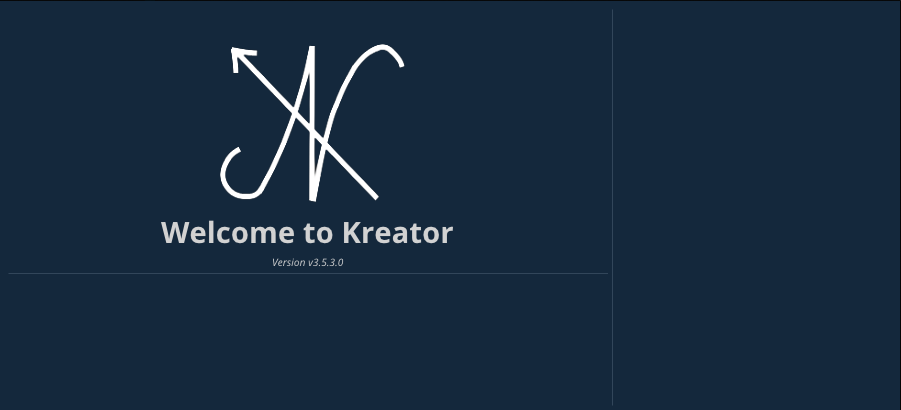
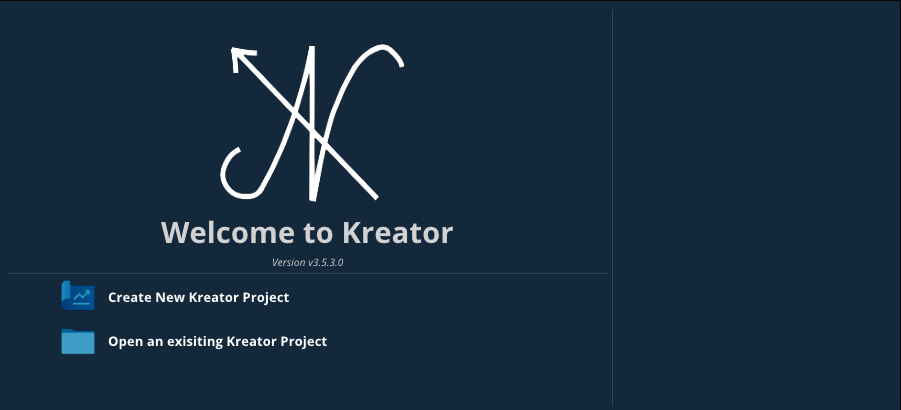
Project buttons in welcome screen

Changed region(s): [[0.0622, 0.6732, 0.3418, 0.761], [0.0622, 0.7902, 0.3729, 0.878]]

diff --git a/Kreator/Kreator/UI/ImGuiUtils.cpp b/Kreator/Kreator/UI/ImGuiUtils.cpp
@@ -108,7 +108,141 @@ namespace Kreator::UI
     *fmt::format_to_n(s_labeledBufferID, std::size(s_labeledBufferID), "{}##{}", label, s_counter++).out = 0;
     return s_labeledBufferID;
   }
+  
+  bool IsItemHovered()
+  {
+    return ImGui::IsItemHovered();
+  }
+  bool IsItemDisabled()
+  {
+    return ImGui::GetItemFlags() & ImGuiItemFlags_Disabled;
+  }
+  void SetTooltip(const std::string_view& text)
+  {
+    if (IsItemHovered())
+    {
+      UI::ScopedColor textCol(ImGuiCol_Text, UI::Color::TextBrighter);
+      ImGui::SetTooltip(text.data());
+    }
+  }
+  
+  // Colors ----------------------------------------------------------------------------------------------------------
+  ImU32 ColorWithValue(const ImColor& color, float value)
+  {
+    const ImVec4& colRow = color.Value;
+    float hue, sat, val;
+    ImGui::ColorConvertRGBtoHSV(colRow.x, colRow.y, colRow.z, hue, sat, val);
+    return ImColor::HSV(hue, sat, std::min(value, 1.0f));
+  }
+  
+  ImU32 ColorWithSaturation(const ImColor& color, float saturation)
+  {
+    const ImVec4& colRow = color.Value;
+    float hue, sat, val;
+    ImGui::ColorConvertRGBtoHSV(colRow.x, colRow.y, colRow.z, hue, sat, val);
+    return ImColor::HSV(hue, std::min(saturation, 1.0f), val);
+  }
+  
+  ImU32 ColorWithHue(const ImColor& color, float hue)
+  {
+    const ImVec4& colRow = color.Value;
+    float h, s, v;
+    ImGui::ColorConvertRGBtoHSV(colRow.x, colRow.y, colRow.z, h, s, v);
+    return ImColor::HSV(std::min(hue, 1.0f), s, v);
+  }
+  
+  ImU32 ColorWithMultipliedValue(const ImColor& color, float multiplier)
+  {
+    const ImVec4& colRow = color.Value;
+    float hue, sat, val;
+    ImGui::ColorConvertRGBtoHSV(colRow.x, colRow.y, colRow.z, hue, sat, val);
+    return ImColor::HSV(hue, sat, std::min(val * multiplier, 1.0f));
+  }
+  
+  ImU32 ColorWithMultipliedSaturation(const ImColor& color, float multiplier)
+  {
+    const ImVec4& colRow = color.Value;
+    float hue, sat, val;
+    ImGui::ColorConvertRGBtoHSV(colRow.x, colRow.y, colRow.z, hue, sat, val);
+    return ImColor::HSV(hue, std::min(sat * multiplier, 1.0f), val);
+  }
+  
+  ImU32 ColorWithMultipliedHue(const ImColor& color, float multiplier)
+  {
+    const ImVec4& colRow = color.Value;
+    float hue, sat, val;
+    ImGui::ColorConvertRGBtoHSV(colRow.x, colRow.y, colRow.z, hue, sat, val);
+    return ImColor::HSV(std::min(hue * multiplier, 1.0f), sat, val);
+  }
 
+  // Buttons ---------------------------------------------------------------------------------------------------------
+  void DrawButtonImage(const Ref<IKan::Image>& imageNormal, const Ref<IKan::Image>& imageHovered,
+                       const Ref<IKan::Image>& imagePressed, const ImVec2& rectMin, const ImVec2& rectMax,
+                       const ImU32& tintNormal, const ImU32& tintHovered, const ImU32& tintPressed)
+  {
+    auto* drawList = ImGui::GetWindowDrawList();
+    if (ImGui::IsItemActive())
+    {
+      drawList->AddImage(GetTextureID(imagePressed), rectMin, rectMax, ImVec2(0, 1), ImVec2(1, 0), tintPressed);
+    }
+    else if (ImGui::IsItemHovered())
+    {
+      drawList->AddImage(GetTextureID(imageHovered), rectMin, rectMax, ImVec2(0, 1), ImVec2(1, 0), tintHovered);
+    }
+    else
+    {
+      drawList->AddImage(GetTextureID(imageNormal), rectMin, rectMax, ImVec2(0, 1), ImVec2(1, 0), tintNormal);
+    }
+  }
+
+  void DrawButtonImage(const Ref<IKan::Image>& image, const ImRect& rectangle, const ImU32& tintNormal, const ImU32& tintHovered,
+                       const ImU32& tintPressed)
+  {
+    DrawButtonImage(image, image, image, rectangle.Min, rectangle.Max, tintNormal, tintHovered, tintPressed);
+  }
+
+  bool DrawImageTextButton(const std::string& buttonHelper, Ref<IKan::Image> icon, const glm::vec2& iconSize, const glm::vec2& offset,
+                           const ImU32& tintNormal, const ImU32& tintHovered, const ImU32& tintPressed)
+  {
+    auto textSize = ImGui::CalcTextSize(buttonHelper.c_str()).x;;
+    const float buttonWidth = textSize + iconSize.x + 80; // Some random number for margin
+    
+    UI::ShiftCursorX(offset.x);
+    UI::ShiftCursorY(offset.y);
+    if (ImGui::InvisibleButton(GenerateLabelID(buttonHelper), ImVec2(buttonWidth, iconSize.y), ImGuiButtonFlags_AllowItemOverlap))
+    {
+      return true;
+    }
+    
+    // Modify the icon size if hovered
+    glm::vec2 iconSizeModified = iconSize;
+    glm::vec2 hoveredLargeIconOffset = {0.0f, 0.0f};
+    if (IsItemHovered())
+    {
+      iconSizeModified.x += 10.0f;
+      iconSizeModified.y += 10.0f;
+      
+      hoveredLargeIconOffset = {5.0f, 5.0f};
+    }
+    
+    const ImVec2 logoRectStart =
+    {
+      ImGui::GetItemRectMin().x - hoveredLargeIconOffset.x,
+      ImGui::GetItemRectMin().y - hoveredLargeIconOffset.y
+    };
+    const ImVec2 logoRectMax =
+    {
+      logoRectStart.x + iconSizeModified.x,
+      logoRectStart.y + iconSizeModified.y
+    };
+    
+    UI::DrawButtonImage(icon, ImRect{logoRectStart, logoRectMax}, tintNormal, tintHovered, tintPressed);
+    
+    ImGui::SameLine(offset.x + iconSizeModified.x + 10);
+    UI::Text(UI::FontType::SemiHeader, buttonHelper, UI::AlignX::Left, {0.0f, iconSize.x / 4}, UI::Color::TextBrighter);
+    return false;
+  };
+  
   // Texts -----------------------------------------------------------------------------------------------------------
   void Text(FontType type, std::string_view string, AlignX xAlign, const glm::vec2& offset, const ImU32& color)
   {

diff --git a/Kreator/Kreator/UI/ImGuiUtils.hpp b/Kreator/Kreator/UI/ImGuiUtils.hpp
@@ -84,6 +84,91 @@ namespace Kreator::UI
   /// This function generate Unique id for labeled widget
   /// - Parameter label: Widget lable
   const char* GenerateLabelID(const std::string_view& label);
+  /// This function checkes is imgui item hovered
+  bool IsItemHovered();
+  /// This function checles is imgui item disabled
+  bool IsItemDisabled();
+  
+  /// This function show the tooltip messge
+  /// - Parameter text: message
+  void SetTooltip(const std::string_view& text);
+  
+  // Colors ----------------------------------------------------------------------------------------------------------
+  /// This function add the color to some value
+  /// - Parameters:
+  ///   - color: color
+  ///   - value: value
+  ImU32 ColorWithValue(const ImColor& color, float value);
+  /// This function adds the color with saturation
+  /// - Parameters:
+  ///   - color: color
+  ///   - saturation: saturation
+  ImU32 ColorWithSaturation(const ImColor& color, float saturation);
+  /// This function adds the color with Hue
+  /// - Parameters:
+  ///   - color: color
+  ///   - hue: hue
+  ImU32 ColorWithHue(const ImColor& color, float hue);
+  /// This finction multiply the color with some value
+  /// - Parameters:
+  ///   - color: color
+  ///   - multiplier: multiplier
+  ImU32 ColorWithMultipliedValue(const ImColor& color, float multiplier);
+  /// This finction multiply the color with some saturation
+  /// - Parameters:
+  ///   - color: color
+  ///   - multiplier: multiplier
+  ImU32 ColorWithMultipliedSaturation(const ImColor& color, float multiplier);
+  /// This finction multiply the color with some hue
+  /// - Parameters:
+  ///   - color: color
+  ///   - multiplier: multiplier
+  ImU32 ColorWithMultipliedHue(const ImColor& color, float multiplier);
+  
+  // Buttons ---------------------------------------------------------------------------------------------------------
+  /// This function draws the image button
+  /// - Parameters:
+  ///   - imageNormal: Normal Image icon
+  ///   - imageHovered: Hovered Image icon
+  ///   - imagePressed: Pressed Image Icon
+  ///   - tintNormal: tint normal color
+  ///   - tintHovered: tint hovered color
+  ///   - tintPressed: tint pressed color
+  ///   - rectMin: min rectangle position
+  ///   - rectMax: max rectangle position
+  /// - Note: Do not draw actual presaable button
+  void DrawButtonImage(const Ref<IKan::Image>& imageNormal, const Ref<IKan::Image>& imageHovered,
+                       const Ref<IKan::Image>& imagePressed, const ImVec2& rectMin, const ImVec2& rectMax,
+                       const ImU32& tintNormal = UI::ColorWithMultipliedValue(UI::Color::TextBrighter, 0.8f),
+                       const ImU32& tintHovered = UI::ColorWithMultipliedValue(UI::Color::TextBrighter, 1.2f),
+                       const ImU32& tintPressed = UI::ColorWithMultipliedValue(UI::Color::TextBrighter, 1.0f));
+
+  /// This function draws the image button
+  /// - Parameters:
+  ///   - image: Image
+  ///   - tintNormal: tint normal color
+  ///   - tintHovered: tint hovered color
+  ///   - tintPressed: tint pressed color
+  ///   - rectangle: image rectangle
+  /// - Note: Do not draw actual presaable button
+  void DrawButtonImage(const Ref<IKan::Image>& image, const ImRect& rectangle,
+                       const ImU32& tintNormal = UI::ColorWithMultipliedValue(UI::Color::TextBrighter, 0.8f),
+                       const ImU32& tintHovered = UI::ColorWithMultipliedValue(UI::Color::TextBrighter, 1.5f),
+                       const ImU32& tintPressed = UI::ColorWithMultipliedValue(UI::Color::TextBrighter, 1.0f));
+  /// This function Draws the button with image and title
+  /// - Parameters:
+  ///   - buttonHelper: button helper
+  ///   - icon: Image
+  ///   - iconSize: Button size
+  ///   - offset: offset of button
+  ///   - tintNormal: tint normal
+  ///   - tintHovered: tint hovered
+  ///   - tintPressed: tint pressed
+  bool DrawImageTextButton(const std::string& buttonHelper, Ref<IKan::Image> icon,
+                           const glm::vec2& iconSize, const glm::vec2& offset = {0.0f, 0.0f},
+                           const ImU32& tintNormal = UI::ColorWithMultipliedValue(UI::Color::TextBrighter, 0.8f),
+                           const ImU32& tintHovered = UI::ColorWithMultipliedValue(UI::Color::TextBrighter, 1.5f),
+                           const ImU32& tintPressed = UI::ColorWithMultipliedValue(UI::Color::TextBrighter, 1.0f));
 
   // Texts -----------------------------------------------------------------------------------------------------------
   /// This function renders the text

diff --git a/Kreator/Kreator/Layers/RendererLayer.cpp b/Kreator/Kreator/Layers/RendererLayer.cpp
@@ -54,7 +54,11 @@ if (!Project::GetActive()) return
     IK_LOG_INFO("RendererLayer", "Creating '{0} Layer' instance", GetName());
     
     // Load Textures -------------------------------------------------------------------------------------------------
+    m_applicationIcon = TextureFactory::Create(KreatorResourcePath("Textures/Logo/IKan.png"));
     m_welcomeIcon = TextureFactory::Create(KreatorResourcePath("Textures/Logo/WelcomeIKan.png"));
+    
+    m_newProjectIcon = TextureFactory::Create(KreatorResourcePath("Textures/Icons/NewProject.png"));
+    m_folderIcon = TextureFactory::Create(KreatorResourcePath("Textures/Icons/Folder.png"));
   }
   
   RendererLayer::~RendererLayer()
@@ -334,6 +338,20 @@ if (!Project::GetActive()) return
           UI::Text(UI::FontType::Italic, versionText.c_str(), UI::AlignX::Center);
 
           ImGui::Separator();
+        }
+        
+        // Buttons
+        {
+          static const glm::vec2 offset = {50.0f, 0.0f};
+          static const glm::vec2 buttonSize = {40.0f, 40.0f};
+          
+          if (UI::DrawImageTextButton("Create New Kreator Project", m_newProjectIcon, buttonSize, offset))
+          {
+          }
+          
+          if (UI::DrawImageTextButton("Open an exisiting Kreator Project", m_folderIcon, buttonSize, offset))
+          {
+          }
         }
       });
       

diff --git a/Kreator/Kreator/Layers/RendererLayer.hpp b/Kreator/Kreator/Layers/RendererLayer.hpp
@@ -84,6 +84,8 @@ namespace Kreator
 
     // Applicaiton Textures ------------------------------
     Ref<Image> m_welcomeIcon;
+    Ref<Image> m_applicationIcon;
+    Ref<Image> m_newProjectIcon, m_folderIcon;
 
     // Application data ----------------------------------
     KreatorDirectories m_directories;

diff --git a/README.md b/README.md
@@ -122,4 +122,4 @@ v {IKanVersion}.{IKanSubVersion}.{KreatorVersion}.{KreatorSubVersion}
 ![](/Kreator/Outputs/Kreator.png)
 
 - Welcome Screen
-![](/Kreator/Outputs/KreatoWelcomeScreen.png)
+![](/Kreator/Outputs/WelcomeScreen.png)
